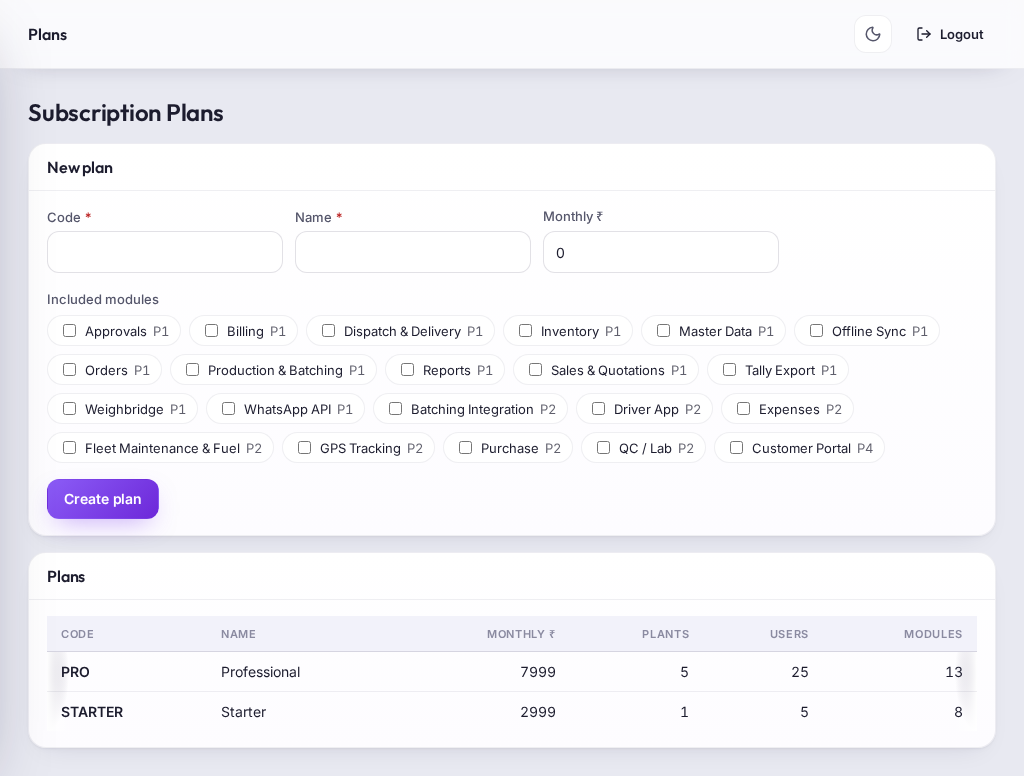
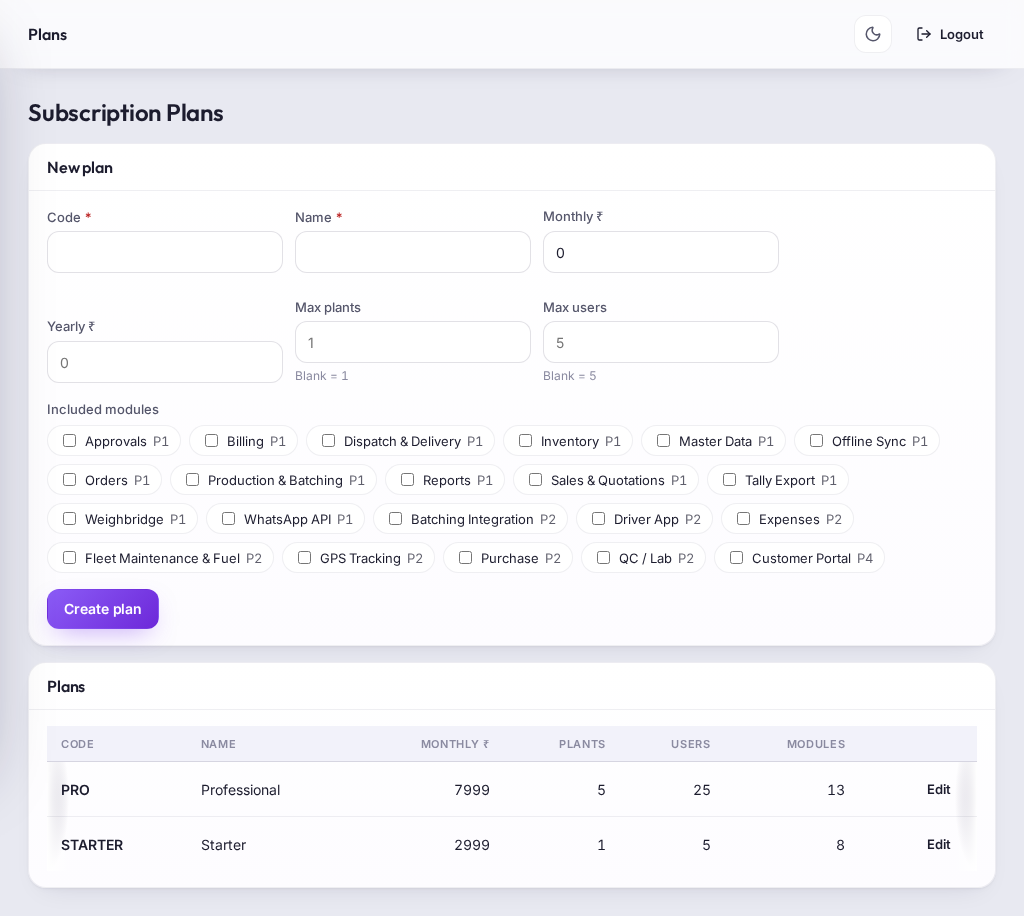
feat(web): surface the subscription-plan edit path (#98)
* feat(web): surface the subscription-plan edit path (High)

Plans were create-only from the UI even though PATCH /platform/plans/:id and
PUT /platform/plans/:id/modules already existed — so a plan's price, caps,
active flag, or module set could never be changed after creation. Web-only:
wire the existing endpoints into the admin Plans screen.

- api: add getPlan(id) (returns the plan with its enabled module keys) and
  updatePlan(id, {...}); setPlanModules was already present.
- Plans page: an Edit action on each row loads the plan into the same aside
  form (prefilled name / monthly / yearly / caps / Active + module checkboxes).
  Code is shown read-only (it is the plan's immutable key). Save issues
  updatePlan + setPlanModules; Cancel returns to the create form. Caps are still
  sent only when filled so the server keeps its defaults.

Verify: web typecheck + eslint clean. No backend/schema/API change — deploys via
one ui_v2 build + web flip, no migrate.

Claude-Session: https://claude.ai/code/session_01BcuFHf7eRzDGkTBPGdJVKG

* test(visual): refresh admin-plans evidence for the plan edit path

The plans table gained an actions column (Edit); regenerate the super-admin
evidence captures so the reference set matches the shipped UI.

Claude-Session: https://claude.ai/code/session_01BcuFHf7eRzDGkTBPGdJVKG

---------

diff --git a/apps/web/src/app/admin/plans/page.tsx b/apps/web/src/app/admin/plans/page.tsx
@@ -12,14 +12,47 @@ import { ErrorState, EmptyState } from '../../../components/ui/States';
 export default function PlansPage() {
   const [plans, setPlans] = useState<PlanRow[]>([]);
   const [catalog, setCatalog] = useState<ModuleRow[]>([]);
+  const [editId, setEditId] = useState<string | null>(null);
   const [code, setCode] = useState('');
   const [name, setName] = useState('');
   const [price, setPrice] = useState('0');
   const [yearly, setYearly] = useState('');
   const [maxPlants, setMaxPlants] = useState('');
   const [maxUsers, setMaxUsers] = useState('');
+  const [active, setActive] = useState(true);
   const [selected, setSelected] = useState<Set<string>>(new Set());
   const [error, setError] = useState<string | null>(null);
+
+  function resetForm() {
+    setEditId(null);
+    setCode('');
+    setName('');
+    setPrice('0');
+    setYearly('');
+    setMaxPlants('');
+    setMaxUsers('');
+    setActive(true);
+    setSelected(new Set());
+  }
+
+  async function startEdit(id: string) {
+    setError(null);
+    try {
+      const p = await api.getPlan(id);
+      setEditId(p.id);
+      setCode(p.code);
+      setName(p.name);
+      setPrice(String(p.monthlyPrice ?? 0));
+      setYearly(p.yearlyPrice ? String(p.yearlyPrice) : '');
+      setMaxPlants(String(p.maxPlants ?? ''));
+      setMaxUsers(String(p.maxUsers ?? ''));
+      setActive(p.isActive);
+      setSelected(new Set(p.modules));
+      if (typeof window !== 'undefined') window.scrollTo({ top: 0, behavior: 'smooth' });
+    } catch (e) {
+      setError(String(e));
+    }
+  }
 
   async function reload() {
     const [p, c] = await Promise.all([api.plans(), api.modules()]);
@@ -39,28 +72,26 @@ export default function PlansPage() {
     });
   }
 
-  async function create(e: FormEvent) {
+  async function submit(e: FormEvent) {
     e.preventDefault();
     setError(null);
     try {
-      // Caps are optional: send only when filled so the server applies its own
+      // Caps are optional: send only when filled so the server keeps its own
       // defaults (plants→1, users→5) rather than us forcing a value.
-      const plan = await api.createPlan({
-        planCode: code,
-        planName: name,
-        monthlyPrice: Number(price) || 0,
+      const caps = {
         ...(yearly.trim() ? { yearlyPrice: Number(yearly) || 0 } : {}),
         ...(maxPlants.trim() ? { maxPlants: Number(maxPlants) } : {}),
         ...(maxUsers.trim() ? { maxUsers: Number(maxUsers) } : {}),
-      });
-      if (selected.size) await api.setPlanModules(plan.id, [...selected]);
-      setCode('');
-      setName('');
-      setPrice('0');
-      setYearly('');
-      setMaxPlants('');
-      setMaxUsers('');
-      setSelected(new Set());
+      };
+      if (editId) {
+        // Code is the plan's immutable key, so it is not sent on edit.
+        await api.updatePlan(editId, { planName: name, monthlyPrice: Number(price) || 0, isActive: active, ...caps });
+        await api.setPlanModules(editId, [...selected]);
+      } else {
+        const plan = await api.createPlan({ planCode: code, planName: name, monthlyPrice: Number(price) || 0, ...caps });
+        if (selected.size) await api.setPlanModules(plan.id, [...selected]);
+      }
+      resetForm();
       await reload();
     } catch (err) {
       setError(err instanceof Error ? err.message : 'Failed');
@@ -73,12 +104,12 @@ export default function PlansPage() {
 
       <div className="mn-crud mn-crud--wide">
         <div className="mn-crud-aside">
-        <Card title="New plan">
-          <Form onSubmit={create}>
+        <Card title={editId ? `Edit plan — ${code}` : 'New plan'}>
+          <Form onSubmit={submit}>
             <div style={{ display: 'flex', gap: 12, flexWrap: 'wrap', alignItems: 'end' }}>
               <div style={{ minWidth: 140 }}>
-                <Field label="Code" required>
-                  <Input value={code} onChange={(e) => setCode(e.target.value)} required />
+                <Field label="Code" required help={editId ? 'Code is fixed once created' : undefined}>
+                  <Input value={code} onChange={(e) => setCode(e.target.value)} required disabled={!!editId} />
                 </Field>
               </div>
               <div style={{ minWidth: 200 }}>
@@ -106,6 +137,16 @@ export default function PlansPage() {
                   <Input type="number" min={1} value={maxUsers} onChange={(e) => setMaxUsers(e.target.value)} placeholder="5" />
                 </Field>
               </div>
+              {editId && (
+                <div style={{ minWidth: 110 }}>
+                  <Field label="Active">
+                    <label style={{ display: 'inline-flex', alignItems: 'center', gap: 8, height: 38, cursor: 'pointer' }}>
+                      <input type="checkbox" checked={active} onChange={(e) => setActive(e.target.checked)} style={{ width: 16, height: 16, accentColor: 'var(--mn-primary)' }} />
+                      <span style={{ fontSize: 13, color: 'var(--mn-muted)' }}>{active ? 'Yes' : 'No'}</span>
+                    </label>
+                  </Field>
+                </div>
+              )}
             </div>
             <div style={{ fontSize: 13, fontWeight: 500, color: 'var(--mn-muted)', margin: '4px 0 8px' }}>Included modules</div>
             <div style={{ display: 'flex', flexWrap: 'wrap', gap: 8, marginBottom: 16 }}>
@@ -133,7 +174,12 @@ export default function PlansPage() {
                 );
               })}
             </div>
-            <Button type="submit">Create plan</Button>
+            <div style={{ display: 'flex', gap: 8 }}>
+              <Button type="submit">{editId ? 'Save changes' : 'Create plan'}</Button>
+              {editId && (
+                <Button type="button" variant="secondary" onClick={resetForm}>Cancel</Button>
+              )}
+            </div>
           </Form>
           {error && <div style={{ marginTop: 12 }}><ErrorState message={error} /></div>}
         </Card>
@@ -150,17 +196,21 @@ export default function PlansPage() {
                 <Th numeric>Plants</Th>
                 <Th numeric>Users</Th>
                 <Th numeric>Modules</Th>
+                <Th />
               </tr>
             </thead>
             <tbody>
               {plans.map((p) => (
-                <tr key={p.id}>
+                <tr key={p.id} style={editId === p.id ? { background: 'var(--mn-purple-50)' } : undefined}>
                   <Td style={{ fontWeight: 600 }}>{p.code}</Td>
                   <Td>{p.name}</Td>
                   <Td numeric>{p.monthlyPrice}</Td>
                   <Td numeric>{p.maxPlants}</Td>
                   <Td numeric>{p.maxUsers}</Td>
                   <Td numeric>{p.moduleCount}</Td>
+                  <Td style={{ textAlign: 'right' }}>
+                    <Button variant="ghost" size="sm" onClick={() => startEdit(p.id)}>Edit</Button>
+                  </Td>
                 </tr>
               ))}
             </tbody>

diff --git a/apps/web/src/lib/api.ts b/apps/web/src/lib/api.ts
@@ -247,6 +247,18 @@ export interface PlanRow {
   maxUsers: number;
   moduleCount: number;
 }
+/** A single plan with its enabled module keys — for the edit form. */
+export interface PlanDetail {
+  id: string;
+  code: string;
+  name: string;
+  monthlyPrice: number;
+  yearlyPrice: number;
+  maxPlants: number;
+  maxUsers: number;
+  isActive: boolean;
+  modules: string[];
+}
 export interface TenantModuleRow {
   moduleKey: string;
   name: string;
@@ -325,6 +337,11 @@ export const api = {
       body: JSON.stringify({ isEnabled }),
     }),
   plans: () => apiFetch<PlanRow[]>('/platform/plans'),
+  getPlan: (id: string) => apiFetch<PlanDetail>(`/platform/plans/${id}`),
+  updatePlan: (
+    id: string,
+    b: { planName?: string; monthlyPrice?: number; yearlyPrice?: number; maxPlants?: number; maxUsers?: number; isActive?: boolean },
+  ) => apiFetch<{ id: string }>(`/platform/plans/${id}`, { method: 'PATCH', body: JSON.stringify(b) }),
   createPlan: (b: {
     planCode: string;
     planName: string;
